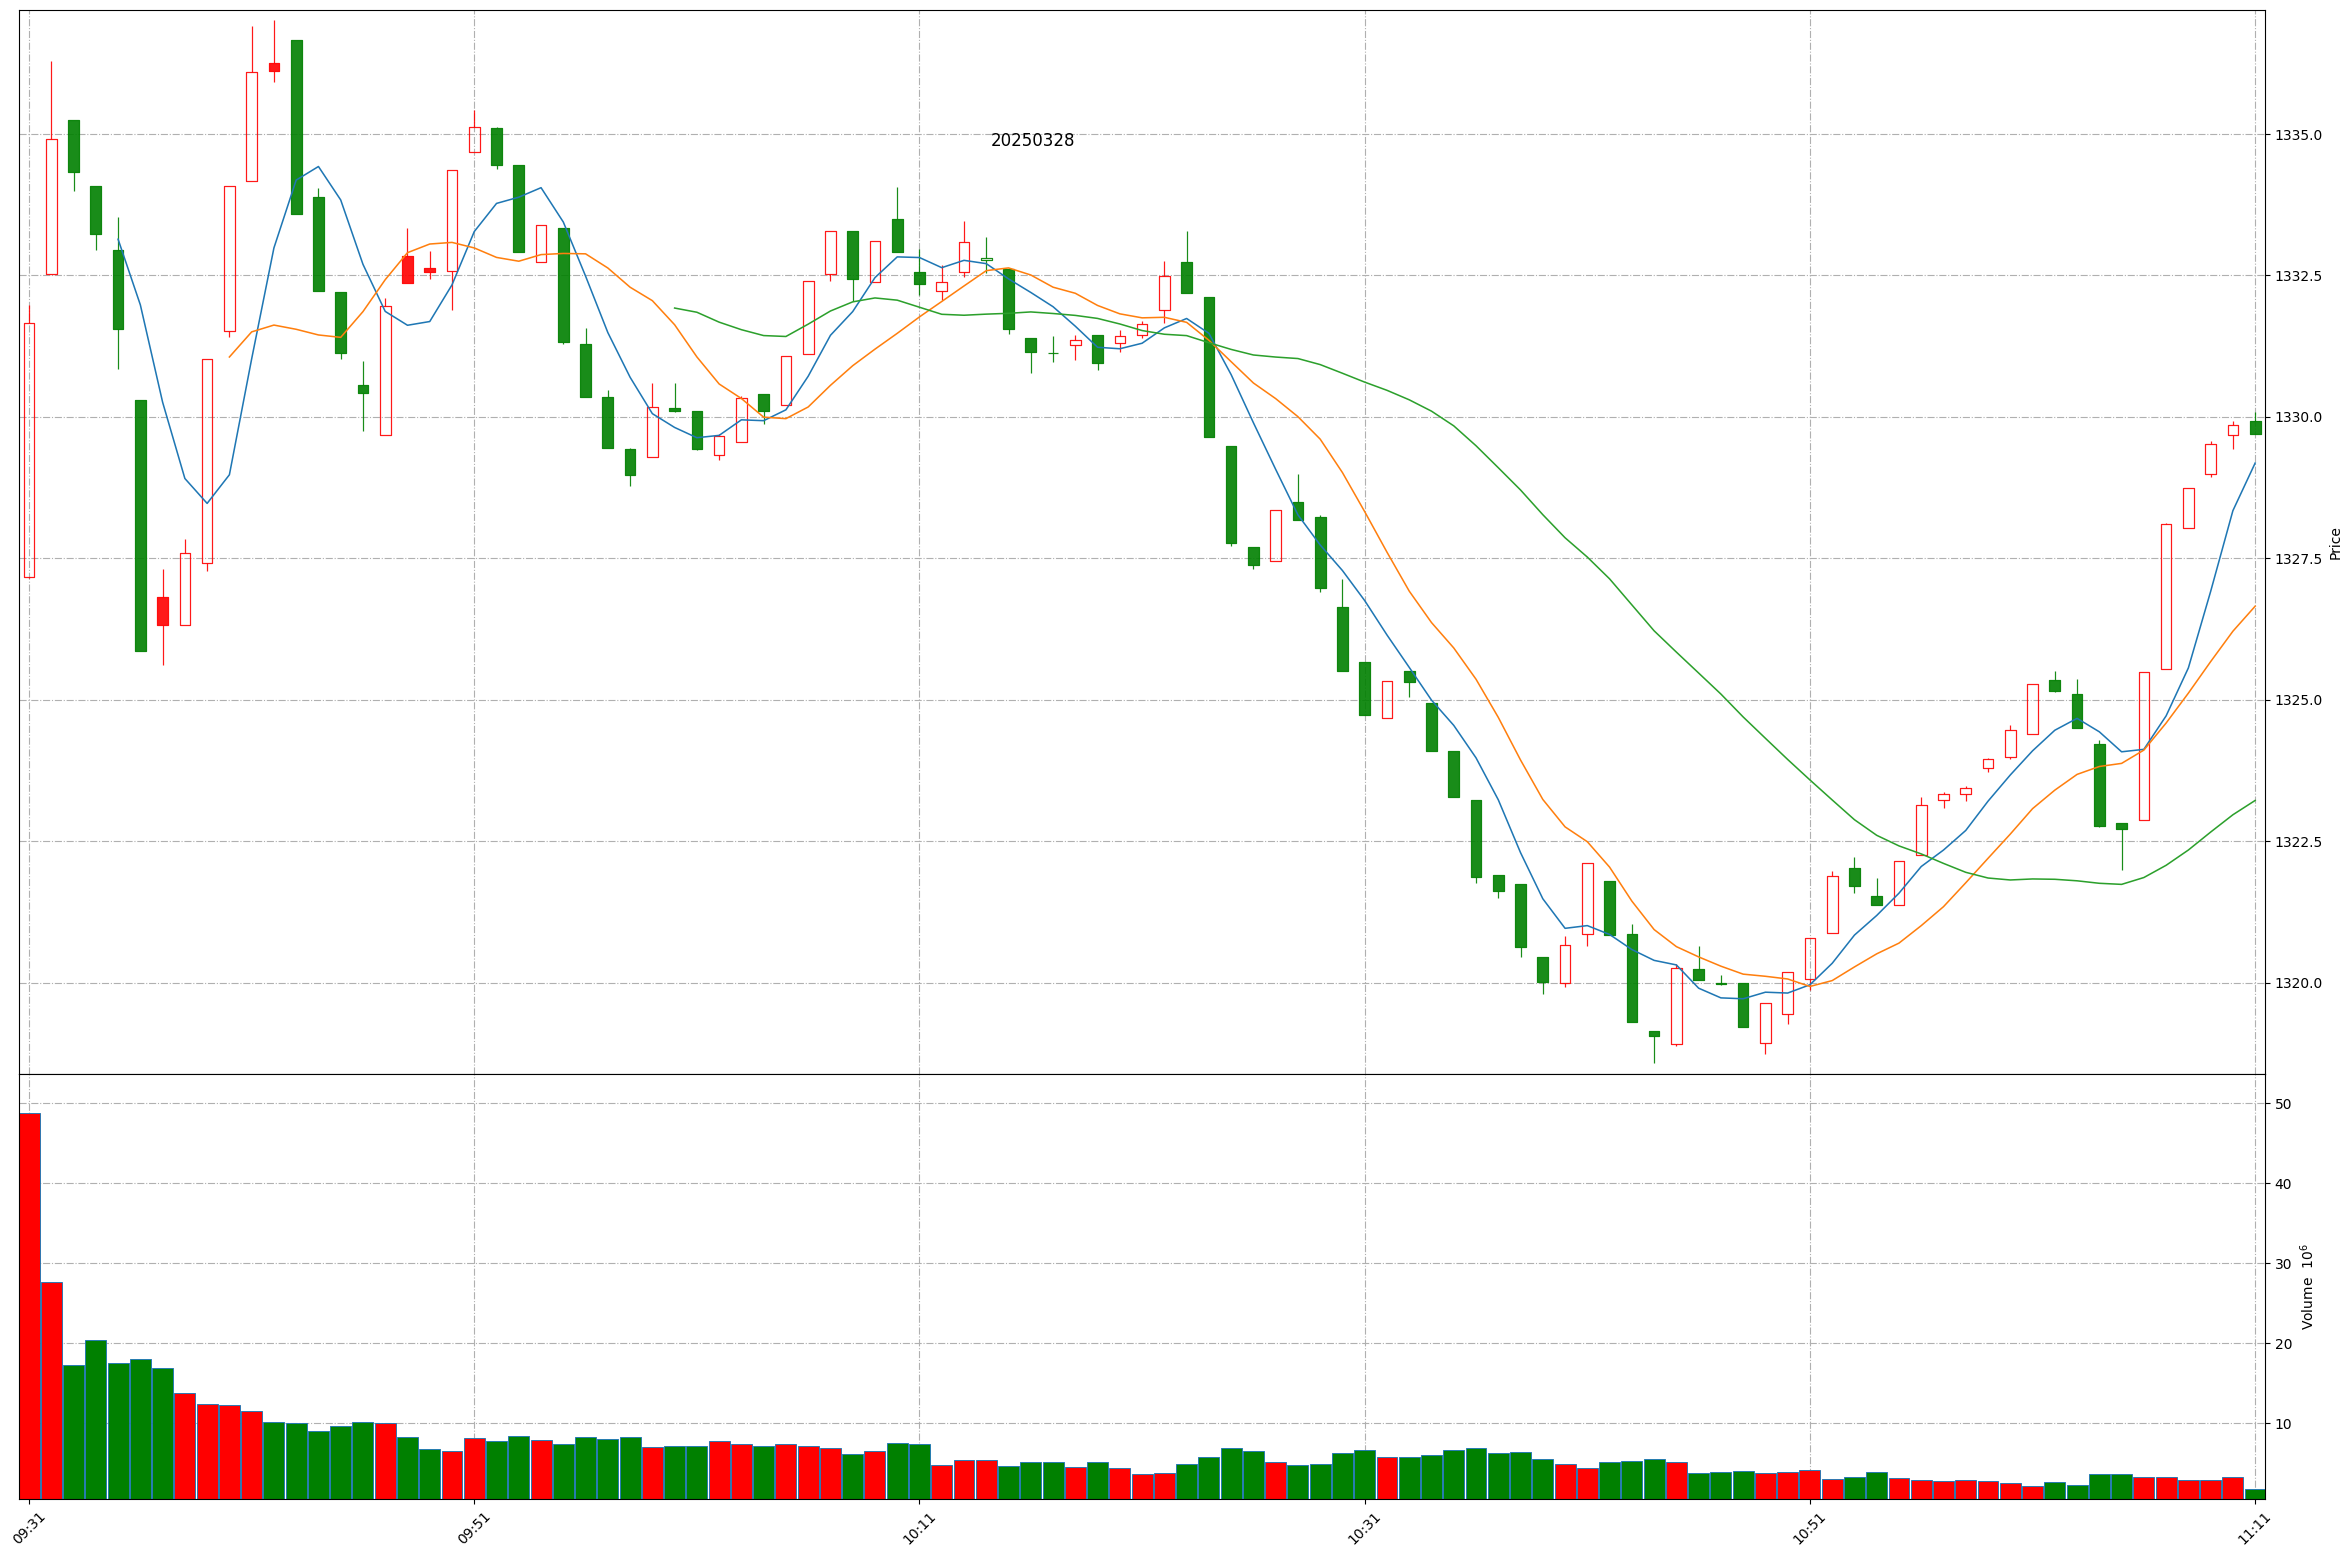
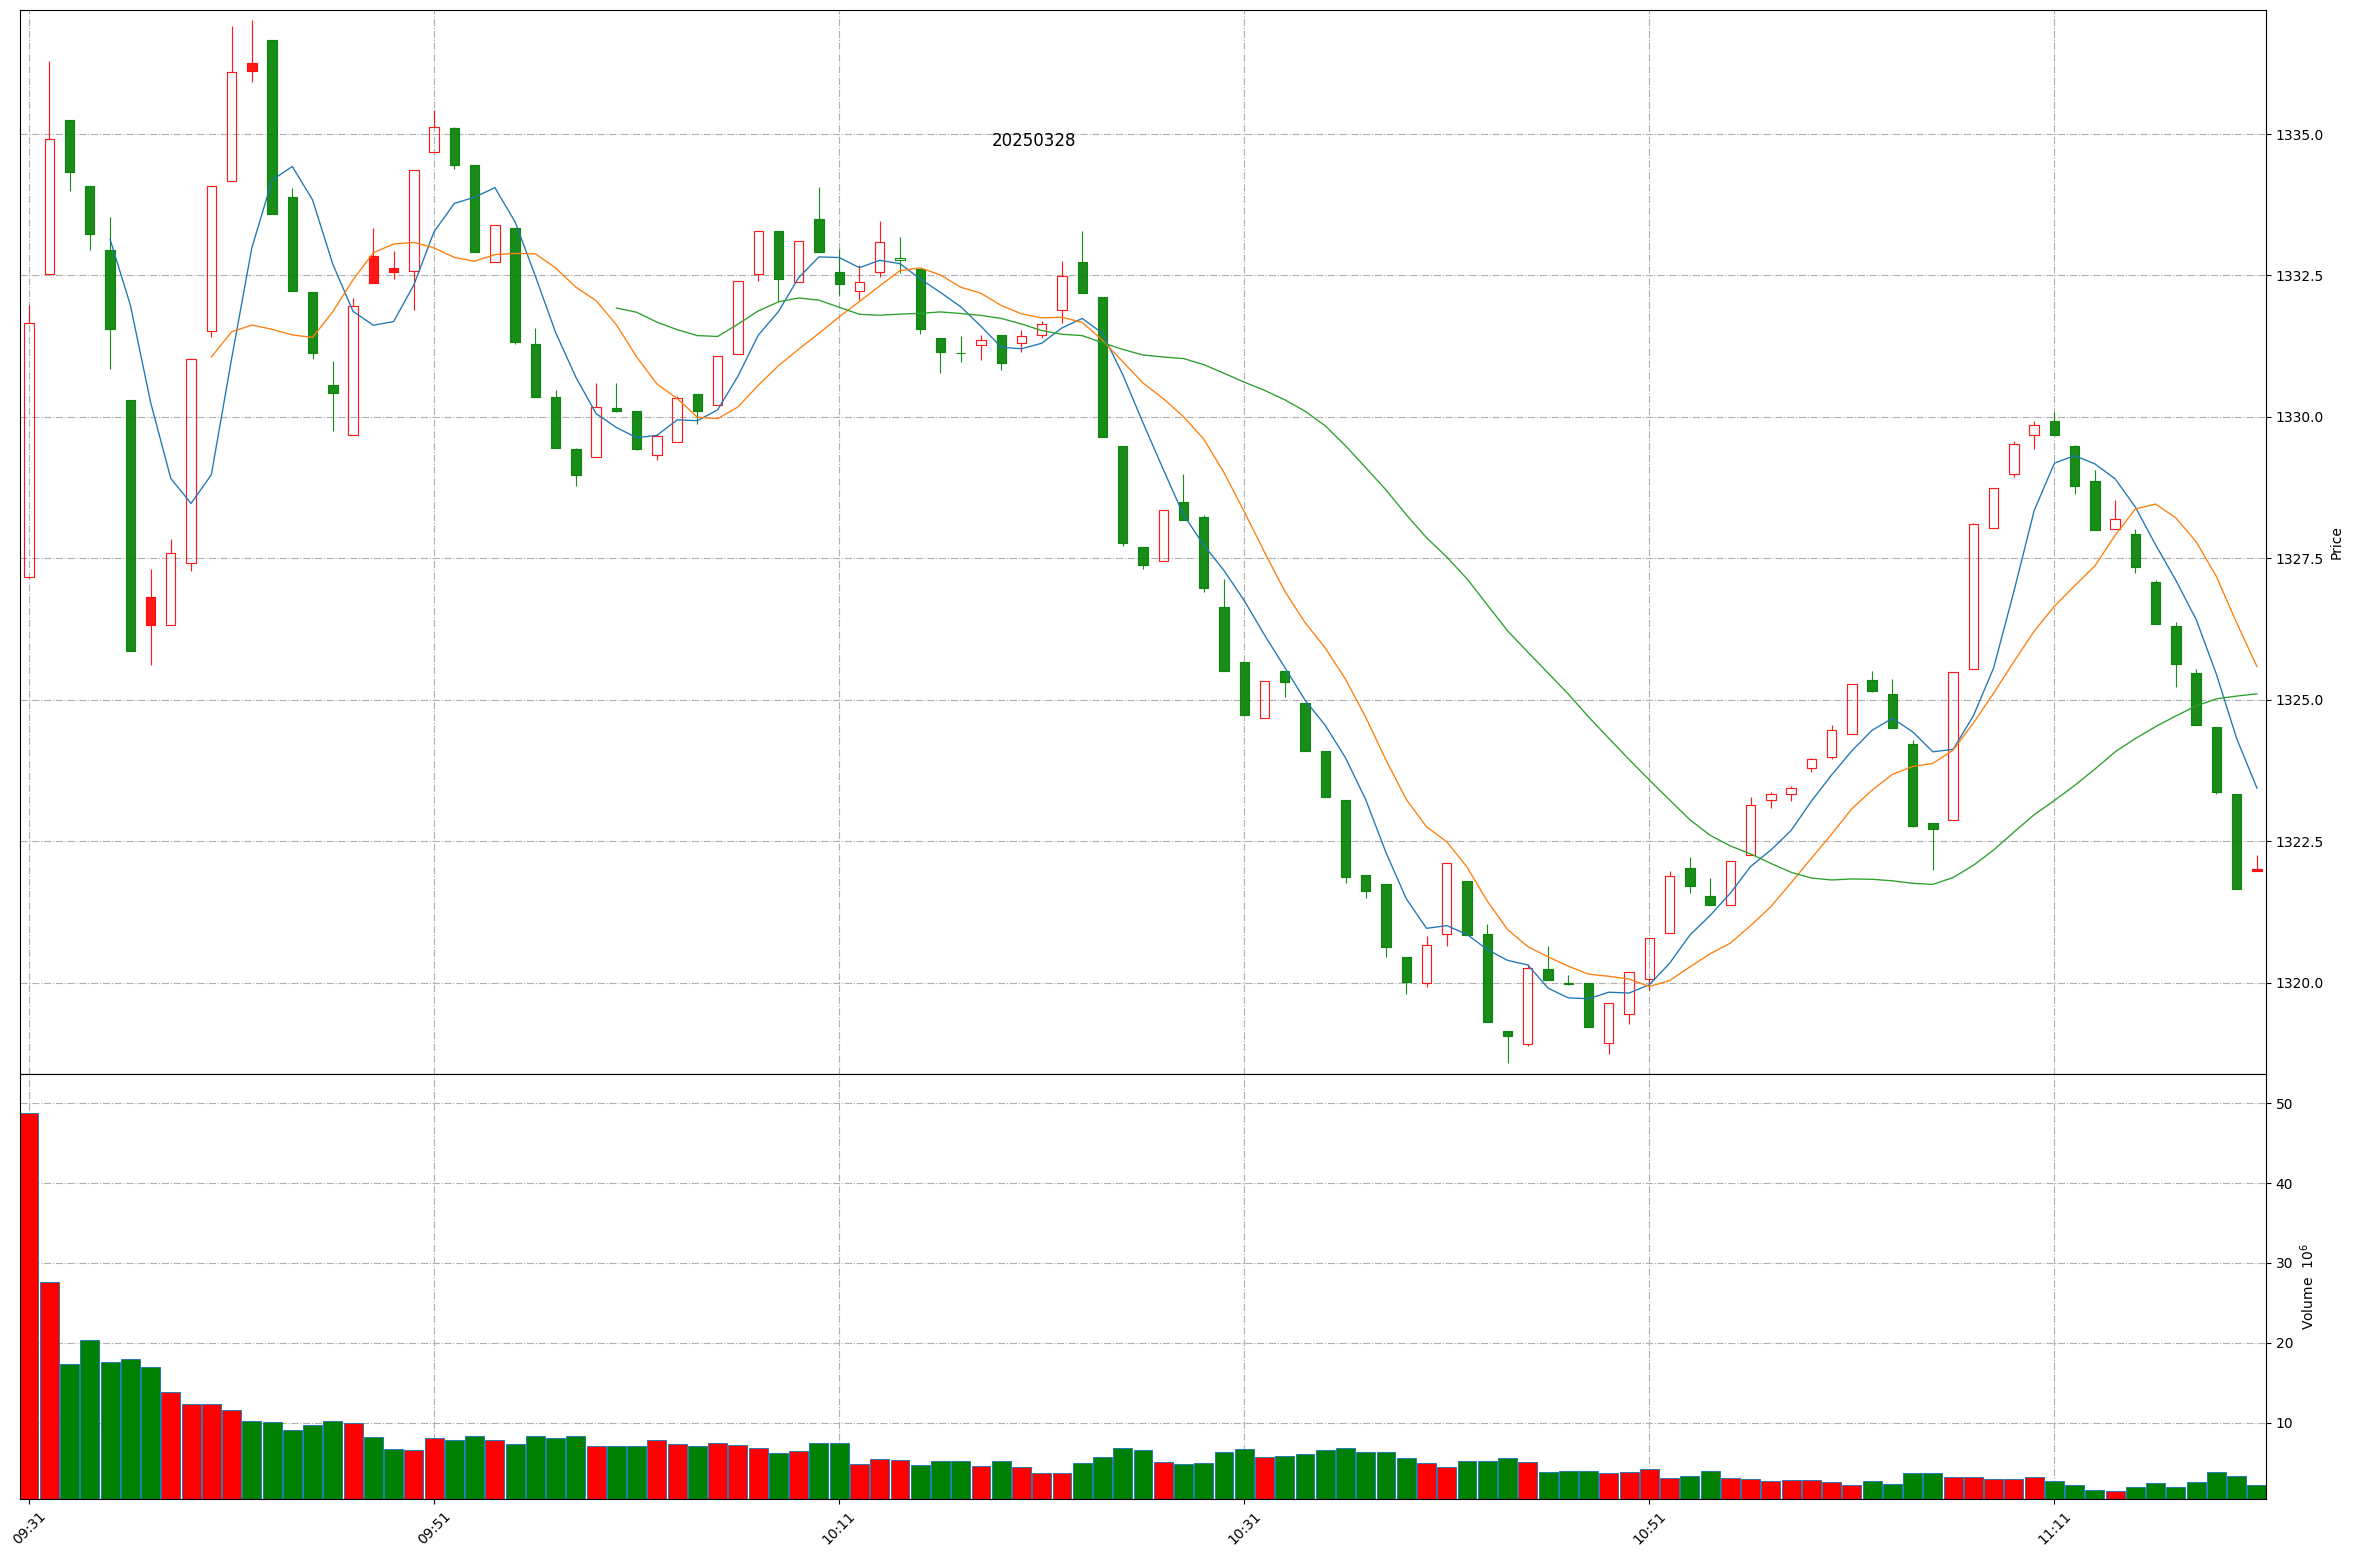
Github action update at 2025-03-28 11:20:56.

diff --git a/README.md b/README.md
@@ -1,11 +1,11 @@
 
 # Daily-A-share-market-quotes 每日 A 股指数（5min 更新）- 20250328
 
-### 上证指数 20250328 11:10
+### 上证指数 20250328 11:20
 ![](./fig/2025/3/20250328-sh000001.png)
 
-### 深证成指 20250328 11:10
+### 深证成指 20250328 11:20
 ![](./fig/2025/3/20250328-sz399001.png)
 
-### 北证50 20250328 11:10
+### 北证50 20250328 11:20
 ![](./fig/2025/3/20250328-bj899050.png)
